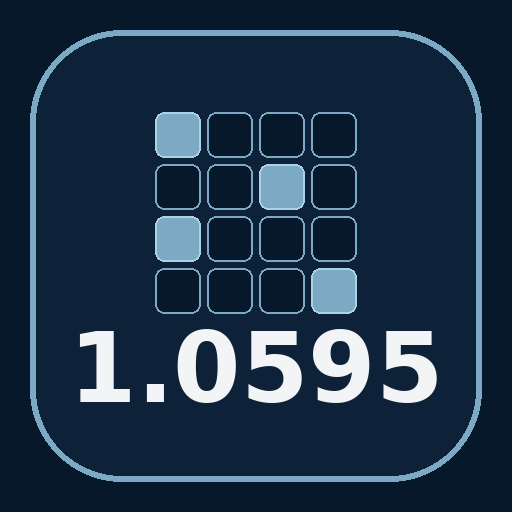
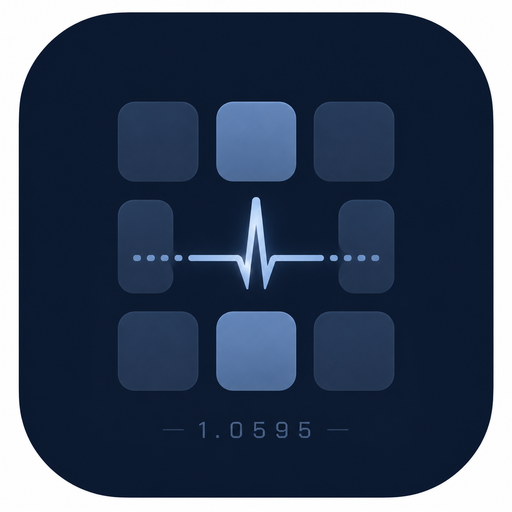
v3.0.0.β5 更新

diff --git a/index.html b/index.html
@@ -13,7 +13,7 @@
 <link rel="icon" href="./favicon.svg" type="image/svg+xml">
 <link rel="icon" href="./favicon-32.png" sizes="32x32" type="image/png">
 <link rel="apple-touch-icon" href="./apple-touch-icon.png">
-<title>1.0595 | Rhythm Sequencer v3.0.0-beta.3</title>
+<title>1.0595 | Rhythm Sequencer v3.0.0-beta.5</title>
 <style>
 :root{
   color-scheme:dark;
@@ -56,7 +56,7 @@ input.live-applied{border-color:var(--success);box-shadow:0 0 0 3px rgba(115,173
 .mode-button[aria-pressed="true"]{background:var(--brand-signal);border-color:var(--brand-signal);color:var(--brand-navy)}
 .pad-stage{min-height:0;display:grid;place-items:center;overflow:hidden}
 .pad-grid{
-  width:min(100%,620px);
+  width:100%;max-width:620px;
   display:grid;grid-template-columns:repeat(4,minmax(0,1fr));gap:7px;
 }
 .pad{
@@ -140,12 +140,12 @@ input.live-applied{border-color:var(--success);box-shadow:0 0 0 3px rgba(115,173
 
 @media(min-width:721px) and (max-height:760px){
   .app-shell{padding-top:7px;padding-bottom:7px}.app-header{margin-bottom:5px}.sequencer-panel{padding:8px 10px}.mode-button{min-height:31px}
-  .pad-grid{width:min(100%,600px);gap:6px}
+  .pad-grid{width:100%;max-width:620px;gap:6px}
   .mode-guide{min-height:25px;padding:5px 7px}.transport-row{margin-top:4px;padding-top:4px}.transport-row button{min-height:34px}
   .inspector-panel{padding:7px;gap:5px}.compact-section{padding:6px 7px}.control-label{margin:4px 0 2px}.choice-row button{height:23px}
   .sound-grid input,.sound-grid select{height:28px}.track-tabs button,.inspector-tabs button{height:28px}.action-row button{min-height:27px}.art-item{padding:2px 1px}
 }
-@media(max-width:900px) and (min-width:721px){.main-layout{grid-template-columns:minmax(0,1fr) 295px}.pad-grid{width:min(100%,570px)}.settings-window{width:94vw;min-width:0}.settings-main{grid-template-columns:165px minmax(0,1fr)}}
+@media(max-width:900px) and (min-width:721px){.main-layout{grid-template-columns:minmax(0,1fr) 295px}.pad-grid{width:100%;max-width:620px}.settings-window{width:94vw;min-width:0}.settings-main{grid-template-columns:165px minmax(0,1fr)}}
 @media(max-width:720px){
   html,body{height:100%;overflow:hidden}
   .app-shell{height:100vh;height:100dvh;min-height:0;overflow:hidden;padding:9px 8px 8px}
@@ -153,7 +153,7 @@ input.live-applied{border-color:var(--success);box-shadow:0 0 0 3px rgba(115,173
   .brand-lockup{grid-area:brand}.status-row{grid-area:status;justify-content:flex-start}.header-tempo{grid-area:tempo;justify-content:end}.icon-button{grid-area:help}
   .main-layout{grid-template-columns:1fr;height:100%;gap:0}.inspector-panel{display:none}
   .sequencer-panel{padding:8px;grid-template-rows:auto minmax(0,1fr) auto auto}.mode-bar{gap:4px;margin-bottom:4px}.mode-button{min-height:32px;padding:3px;font-size:.61rem}
-  .pad-grid{width:min(100%,520px);gap:5px}.pad{border-radius:8px}.event-glyph .art{font-size:clamp(1.8rem,9vw,2.55rem)}.event-glyph .retrig{font-size:clamp(.95rem,5vw,1.25rem)}
+  .pad-grid{width:100%;max-width:620px;gap:5px}.pad{border-radius:8px}.event-glyph .art{font-size:clamp(1.8rem,9vw,2.55rem)}.event-glyph .retrig{font-size:clamp(.95rem,5vw,1.25rem)}
   .mode-guide{margin-top:4px;min-height:27px;padding:5px 7px;font-size:.6rem}.transport-row{margin-top:4px;padding-top:4px}.transport-row button{min-height:37px}
   .modal-backdrop{padding:0;background:var(--bg-app);backdrop-filter:none}.settings-window{width:100%;height:100dvh;min-width:0;min-height:0;border:0;border-radius:0}
   .settings-header{padding:max(9px,env(safe-area-inset-top)) 10px 8px}.settings-main{display:grid;grid-template-columns:1fr;grid-template-rows:auto minmax(0,1fr)}.settings-nav{display:none}
@@ -166,6 +166,23 @@ input.live-applied{border-color:var(--success);box-shadow:0 0 0 3px rgba(115,173
   .form-grid,.tool-grid{grid-template-columns:1fr}.log-form-row{align-items:flex-start;flex-direction:column}.commit-button{width:100%}.log-entry summary{grid-template-columns:1fr;gap:4px}.log-detail{padding-left:2px}.play-status{display:none}
 }
 @media(prefers-reduced-motion:reduce){*,*::before,*::after{scroll-behavior:auto!important;transition:none!important;animation:none!important}}
+
+@media(max-width:720px){
+  .app-shell{height:100dvh;min-height:0;overflow:hidden}
+  .main-layout{height:100%;min-height:0}
+  .sequencer-panel{height:100%;min-height:0}
+  .pad-stage{min-height:0;overflow:hidden}
+}
+@media(max-width:900px) and (orientation:landscape){
+  .app-shell{padding-top:6px;padding-bottom:6px}
+  .app-header{margin-bottom:5px}
+  .mode-bar{margin-bottom:4px}
+  .mode-button{min-height:30px;padding:3px 5px}
+  .mode-guide{min-height:24px;margin-top:4px;padding:4px 7px}
+  .transport-row{margin-top:4px;padding-top:4px}
+  .transport-row button{min-height:33px}
+}
+
 </style>
 </head>
 <body>
@@ -309,8 +326,8 @@ input.live-applied{border-color:var(--success);box-shadow:0 0 0 3px rgba(115,173
 
         <section class="settings-view" id="viewNotes" data-view-panel="notes" hidden>
           <h2 class="view-title">Release Notes</h2><p class="view-intro">Recent application changes.</p>
-          <article class="release"><h3>v3.0.0-beta.3 · 2026-08-10</h3><h4>Improved</h4><ul><li>Unified the entire application interface and Guide in English.</li><li>Re-centered the visual system on the deep-navy 1.0595 CIS with muted steel-blue active states.</li><li>Rebuilt the laptop Inspector as EVENT / TRACK tabs so the 4×4 pad grid can stay larger without hiding information or forcing normal page scrolling.</li><li>Moved Brightness, Noise, Pitch Display, Master Volume, Tools, Log, Guide, and Release Notes into Settings as lower-frequency controls.</li><li>Kept Sound, Level, Pitch, Length, and Mute in the quick TRACK Inspector.</li><li>Increased playback flash contrast with a brighter center, stronger steel-blue outline, and longer pulse.</li><li>Kept all numeric controls on the shared 30 ms live-update path so state, summaries, and duplicate views remain synchronized.</li></ul></article>
-          <article class="release"><h3>v3.0.0-beta.3 · 2026-08-10</h3><h4>Added</h4><ul><li>4×4 Rhythm Sequencer with sixteen independent Event slots per Track.</li><li>Beat + Split + Point timing model supporting mixed binary and triplet positions inside one Track.</li><li>Four Patterns, four independent Tracks, Retrig, Pattern queue, Swing, and mobile Performance View.</li></ul><h4>Improved</h4><ul><li>Built on the v2.4.2 navy CIS, Settings, Log, Guide, Release Notes, Media Session, Wake Lock, and detailed sound engine.</li><li>Laptop workbench fits the sequencer and inspector into one viewport without normal page scrolling.</li><li>Playback Pad flash uses high-contrast white + steel-blue glow.</li><li>All numeric settings use clearable 30 ms live input and immediately update visible state summaries.</li><li>Master Volume 100% maps to gain 1.00 while retaining the Dynamics Compressor.</li></ul></article>
+          <article class="release"><h3>v3.0.0-beta.5 · 2026-08-10</h3><h4>Improved</h4><ul><li>Unified the entire application interface and Guide in English.</li><li>Re-centered the visual system on the deep-navy 1.0595 CIS with muted steel-blue active states.</li><li>Rebuilt the laptop Inspector as EVENT / TRACK tabs so the 4×4 pad grid can stay larger without hiding information or forcing normal page scrolling.</li><li>Moved Brightness, Noise, Pitch Display, Master Volume, Tools, Log, Guide, and Release Notes into Settings as lower-frequency controls.</li><li>Kept Sound, Level, Pitch, Length, and Mute in the quick TRACK Inspector.</li><li>Increased playback flash contrast with a brighter center, stronger steel-blue outline, and longer pulse.</li><li>Kept all numeric controls on the shared 30 ms live-update path so state, summaries, and duplicate views remain synchronized.</li></ul></article>
+          <article class="release"><h3>v3.0.0-beta.5 · 2026-08-10</h3><h4>Added</h4><ul><li>4×4 Rhythm Sequencer with sixteen independent Event slots per Track.</li><li>Beat + Split + Point timing model supporting mixed binary and triplet positions inside one Track.</li><li>Four Patterns, four independent Tracks, Retrig, Pattern queue, Swing, and mobile Performance View.</li></ul><h4>Improved</h4><ul><li>Built on the v2.4.2 navy CIS, Settings, Log, Guide, Release Notes, Media Session, Wake Lock, and detailed sound engine.</li><li>Laptop workbench fits the sequencer and inspector into one viewport without normal page scrolling.</li><li>Playback Pad flash uses high-contrast white + steel-blue glow.</li><li>All numeric settings use clearable 30 ms live input and immediately update visible state summaries.</li><li>Master Volume 100% maps to gain 1.00 while retaining the Dynamics Compressor.</li></ul></article>
           <article class="release"><h3>v2.4.2 · 2026-07-29</h3><h4>Improved</h4><ul><li>Settings Transport now switches between PLAY and STOP in real time.</li><li>Main Transport, Settings Transport, keyboard Space, and Media Session share one playback state.</li><li>Licensing notices and project documentation were consolidated and simplified.</li><li>README now includes usage, privacy, deployment, release, and licensing guidance.</li></ul></article>
           <article class="release"><h3>v2.4.1 · 2026-07-29</h3><h4>Improved</h4><ul><li>Version number moved to the right of the 1.0595 wordmark.</li><li>Low-height desktop layouts use adaptive layout behavior.</li><li>Track Pattern, Articulation, and Sound were presented at one information level.</li><li>Deep navy and muted steel blue replaced the brighter signal palette.</li></ul></article>
           <article class="release"><h3>v2.4.0 · 2026-07-29</h3><h4>Added</h4><ul><li>New 1.0595 product identity and navy-based CIS.</li><li>Central Settings window with Sound, Log, Guide, and Release Notes views.</li><li>Track sound summaries and direct Track-to-Settings navigation.</li></ul><h4>Improved</h4><ul><li>Single-source state, real-time parameter feedback, responsive layout, and keyboard documentation.</li><li>Sound controls reduced to Sound, Level, Pitch, Length, Brightness, and Noise.</li></ul></article>
@@ -329,8 +346,8 @@ input.live-applied{border-color:var(--success);box-shadow:0 0 0 3px rgba(115,173
 <script>
 'use strict';
 const $=id=>document.getElementById(id);
-const APP_NAME='1.0595',VERSION='3.0.0-beta.3',STORAGE_KEY='1.0595-rhythm-sequencer-v3.0.0-beta.3';
-const LEGACY_STORAGE_KEYS=['1.0595-rhythm-sequencer-v3.0.0-beta.2','1.0595-rhythm-sequencer-v3.0.0-beta.1','1-0595-rhythm-sequencer-v3-revl','1-0595-rhythm-sequencer-v3-revk','1.0595-metronome-v2.4.2','1.0595-metronome-v2.4.1','1.0595-metronome-v2.4.0','sqrt12-metronome-v2.3.2','sqrt12-metronome-v2.3.1'];
+const APP_NAME='1.0595',VERSION='3.0.0-beta.5',STORAGE_KEY='1.0595-rhythm-sequencer-v3.0.0-beta.5';
+const LEGACY_STORAGE_KEYS=['1.0595-rhythm-sequencer-v3.0.0-beta.4','1.0595-rhythm-sequencer-v3.0.0-beta.3','1.0595-rhythm-sequencer-v3.0.0-beta.2','1.0595-rhythm-sequencer-v3.0.0-beta.1','1-0595-rhythm-sequencer-v3-revl','1-0595-rhythm-sequencer-v3-revk','1.0595-metronome-v2.4.2','1.0595-metronome-v2.4.1','1.0595-metronome-v2.4.0','sqrt12-metronome-v2.3.2','sqrt12-metronome-v2.3.1'];
 const LOG_DB='sqrt12-metronome-log',LOG_STORE='logs',LOG_DB_VERSION=1,LOG_FALLBACK_KEY='sqrt12-metronome-log-fallback';
 const PPQN=960,BAR_TICKS=3840,EVENT_SLOTS=16,SPLITS=[1,2,3,4,6,8];
 const clamp=(v,min,max,fb=min)=>{v=Number(v);return Number.isFinite(v)?Math.max(min,Math.min(max,v)):fb};
@@ -643,16 +660,40 @@ function setInspectorView(view){
 function fitPadGrid(){
  const stage=document.querySelector('.pad-stage'),grid=document.querySelector('.pad-grid');
  if(!stage||!grid)return;
- const cs=getComputedStyle(grid),gap=parseFloat(cs.columnGap||cs.gap)||7;
- const stageW=Math.max(0,stage.clientWidth),stageH=Math.max(0,stage.clientHeight);
- const padRatio=1.48;
- // Four rows: H = (W - 3g)/ratio + 3g
- const widthByHeight=Math.max(0,(stageH-3*gap)*padRatio+3*gap);
- let hardMax=620;
- if(innerWidth<=900)hardMax=570;
- if(innerWidth<=720)hardMax=520;
- const fitted=Math.floor(Math.min(stageW,widthByHeight,hardMax));
- grid.style.width=`${Math.max(220,fitted)}px`;
+
+ const stageRect=stage.getBoundingClientRect();
+ const gridStyle=getComputedStyle(grid);
+ const gap=parseFloat(gridStyle.columnGap||gridStyle.gap)||7;
+
+ // Read the real visible space, not nominal screen dimensions.
+ const vv=window.visualViewport;
+ const viewportW=vv?.width||document.documentElement.clientWidth||innerWidth;
+ const viewportH=vv?.height||document.documentElement.clientHeight||innerHeight;
+
+ const availableW=Math.max(0,Math.min(stage.clientWidth,viewportW-stageRect.left-8));
+ const availableH=Math.max(0,Math.min(stage.clientHeight,viewportH-stageRect.top-8));
+
+ // Pad aspect ratio is width / height.
+ const ratio=1.48;
+
+ // For a 4×4 grid:
+ // gridHeight = 4 * padHeight + 3 * gap
+ // gridWidth  = 4 * padWidth  + 3 * gap
+ // padWidth = padHeight * ratio
+ const widthByHeight=Math.max(0,4*(((availableH-3*gap)/4)*ratio)+3*gap);
+
+ // Device-independent safety margins.
+ let maxW=620;
+ if(viewportW<1100)maxW=590;
+ if(viewportW<900)maxW=560;
+ if(viewportW<720)maxW=520;
+ if(viewportW<520)maxW=viewportW-20;
+
+ const fitted=Math.floor(Math.min(availableW,widthByHeight,maxW));
+ const safeWidth=Math.max(180,fitted);
+
+ grid.style.width=`${safeWidth}px`;
+ grid.style.maxWidth=`${safeWidth}px`;
 }
 
 function renderAll(){renderHeader();renderPads();renderModeGuide();syncDesktopInspector();setInspectorView(inspectorView);if(!$('settingsBackdrop').hidden)syncOpenSettings();requestAnimationFrame(fitPadGrid)}
@@ -803,7 +844,12 @@ function init(){
  $('clearTrack').onclick=clearCurrentTrack;$('clearPattern').onclick=clearCurrentPattern;
  bindLog();bindMedia();setPitchDisplay(state.pitchDisplay);updateTransport();$('masterVolumeSettings').value=state.masterVolume;$('masterVolumeMeta').textContent=`${state.masterVolume}%`;
  document.addEventListener('keydown',event=>{trapSettingsFocus(event);if(event.defaultPrevented)return;if(event.key==='Escape'&&!$('settingsBackdrop').hidden){event.preventDefault();closeSettings();return}const interactive=event.target.closest?.('input,select,textarea,button,a,summary,[contenteditable="true"]');if(interactive)return;if(event.code==='Space'){event.preventDefault();toggleTransport()}else if(event.key.toLowerCase()==='t'){event.preventDefault();tap()}else if(event.key==='ArrowUp'){event.preventDefault();stepBpm(event.shiftKey?5:1)}else if(event.key==='ArrowDown'){event.preventDefault();stepBpm(event.shiftKey?-5:-1)}});
- document.addEventListener('visibilitychange',()=>{if(document.visibilityState==='visible'&&playing)requestWakeLock()});window.addEventListener('resize',fitPadGrid,{passive:true});window.addEventListener('orientationchange',()=>setTimeout(fitPadGrid,80),{passive:true});window.addEventListener('beforeunload',stop)
+ document.addEventListener('visibilitychange',()=>{if(document.visibilityState==='visible'&&playing)requestWakeLock()});window.addEventListener('resize',fitPadGrid,{passive:true});
+window.visualViewport?.addEventListener('resize',fitPadGrid,{passive:true});
+window.visualViewport?.addEventListener('scroll',fitPadGrid,{passive:true});
+const padStageObserver=new ResizeObserver(()=>fitPadGrid());
+const observedPadStage=document.querySelector('.pad-stage');
+if(observedPadStage)padStageObserver.observe(observedPadStage);window.addEventListener('orientationchange',()=>setTimeout(fitPadGrid,80),{passive:true});window.addEventListener('beforeunload',stop)
 }
 
 if('serviceWorker' in navigator){

diff --git a/sw.js b/sw.js
@@ -1,4 +1,4 @@
-const CACHE_NAME='1.0595-v3.0.0-beta.3';
+const CACHE_NAME='1.0595-v3.0.0-beta.5';
 const APP_SHELL=[
   './',
   './index.html',

diff --git a/GITHUB_PAGES_UPDATE.md b/GITHUB_PAGES_UPDATE.md
@@ -1,60 +1,31 @@
 # 1.0595 — GitHub Pages Update
 
-Version: v3.0.0-beta.3 · RevO
+Version: v3.0.0-beta.5 · RevQ
 
-## Upload these files to the GitHub Pages publishing root
+## Main change
+This package updates the app icon set to the selected fourth concept: the minimal pulse-pad icon.
 
-- `index.html`
-- `manifest.webmanifest`
-- `sw.js`
-- `favicon.svg`
-- `favicon-32.png`
-- `apple-touch-icon.png`
-- `icon-192.png`
-- `icon-512.png`
-- `icon-maskable-512.png`
-- `.nojekyll`
+Updated assets:
+- favicon-32.png
+- favicon.svg
+- apple-touch-icon.png
+- icon-192.png
+- icon-512.png
+- icon-maskable-512.png
 
-`VERSION.txt` is optional.
+## Upload
+Replace the files in the GitHub Pages publishing root with all files from this package.
 
-If GitHub Pages is configured as **main / root**, upload these files to the repository root.
-If Pages publishes from `/docs`, place all of them together inside `/docs`.
+Current recommended Pages source:
+- Branch: `main`
+- Folder: `/(root)`
 
-## Phone home-screen icon
+## Cache / installed app
+The service-worker cache name is now `1.0595-v3.0.0-beta.5`, so the new deployment supersedes beta.4.
 
-### iPhone / iPad
-1. Open the GitHub Pages URL in **Safari**.
-2. Tap **Share**.
-3. Choose **Add to Home Screen**.
-4. Keep the name `1.0595` and tap **Add**.
+After deployment:
+1. Open the website once while online.
+2. Refresh once.
+3. If the old icon remains on the home screen, remove the old shortcut / installed app and add it again.
 
-Safari uses `apple-touch-icon.png`.
-
-### Android
-1. Open the GitHub Pages URL in **Chrome**.
-2. Open the menu.
-3. Choose **Install app** or **Add to Home screen**.
-
-Chrome uses `manifest.webmanifest` and the 192/512 icons.
-
-## Important after updating
-
-A service worker caches the app for faster/offline reopening.
-After replacing an older version on GitHub Pages:
-- refresh the page once after deployment;
-- if the old version remains, close/reopen the installed app or reload once online.
-
-The cache name changes with this release, so beta.3 replaces the older cached shell automatically.
-
-## Grid-fit change
-
-The 4×4 pad width is now calculated from the **actual `.pad-stage` width and height** at runtime.
-This avoids slight overflow caused by:
-- browser address/tool bars,
-- Windows display scaling,
-- browser zoom,
-- laptop viewports shorter than the nominal screen resolution.
-
-## Existing data
-
-beta.3 reads beta.2 as a legacy storage source, so existing local settings migrate forward.
+Existing beta.4 local settings migrate into beta.5.
